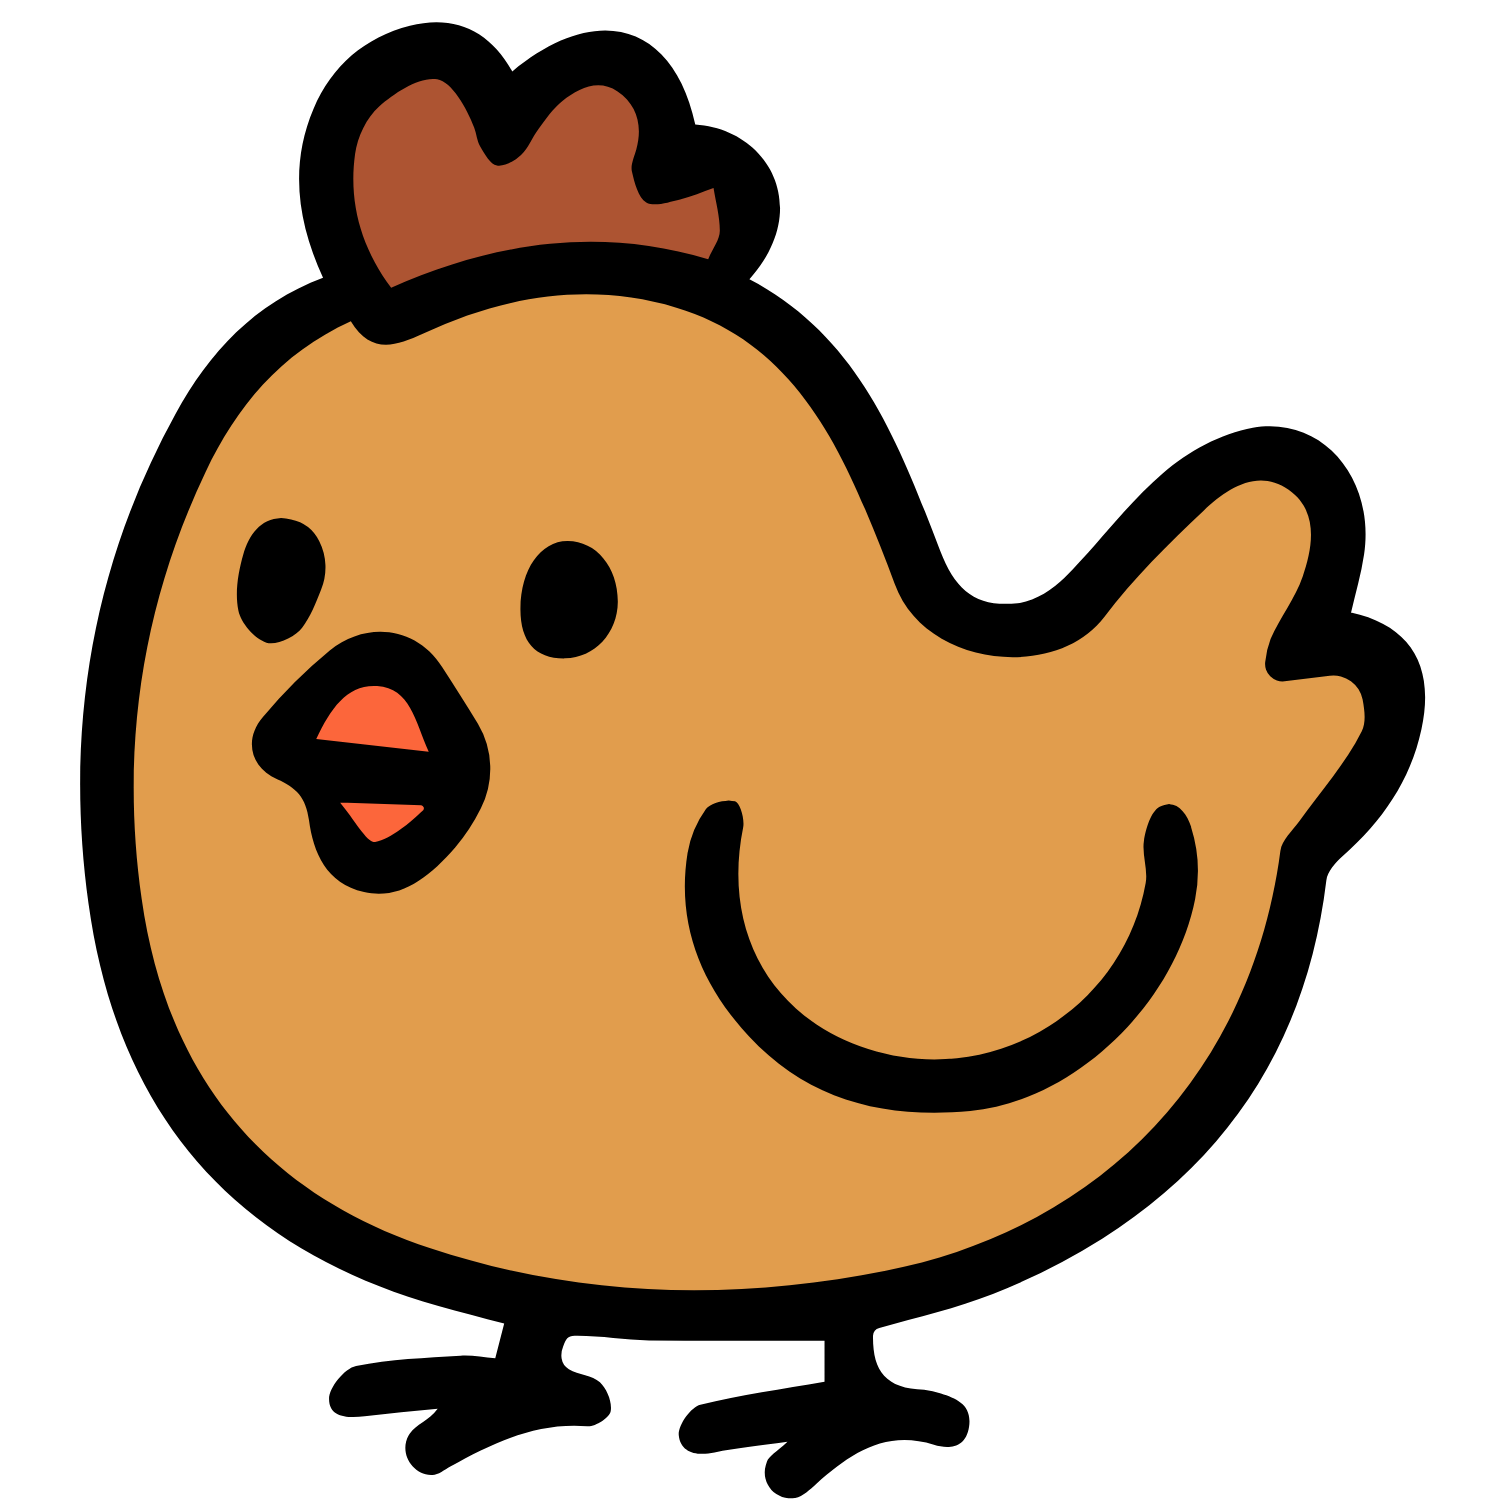
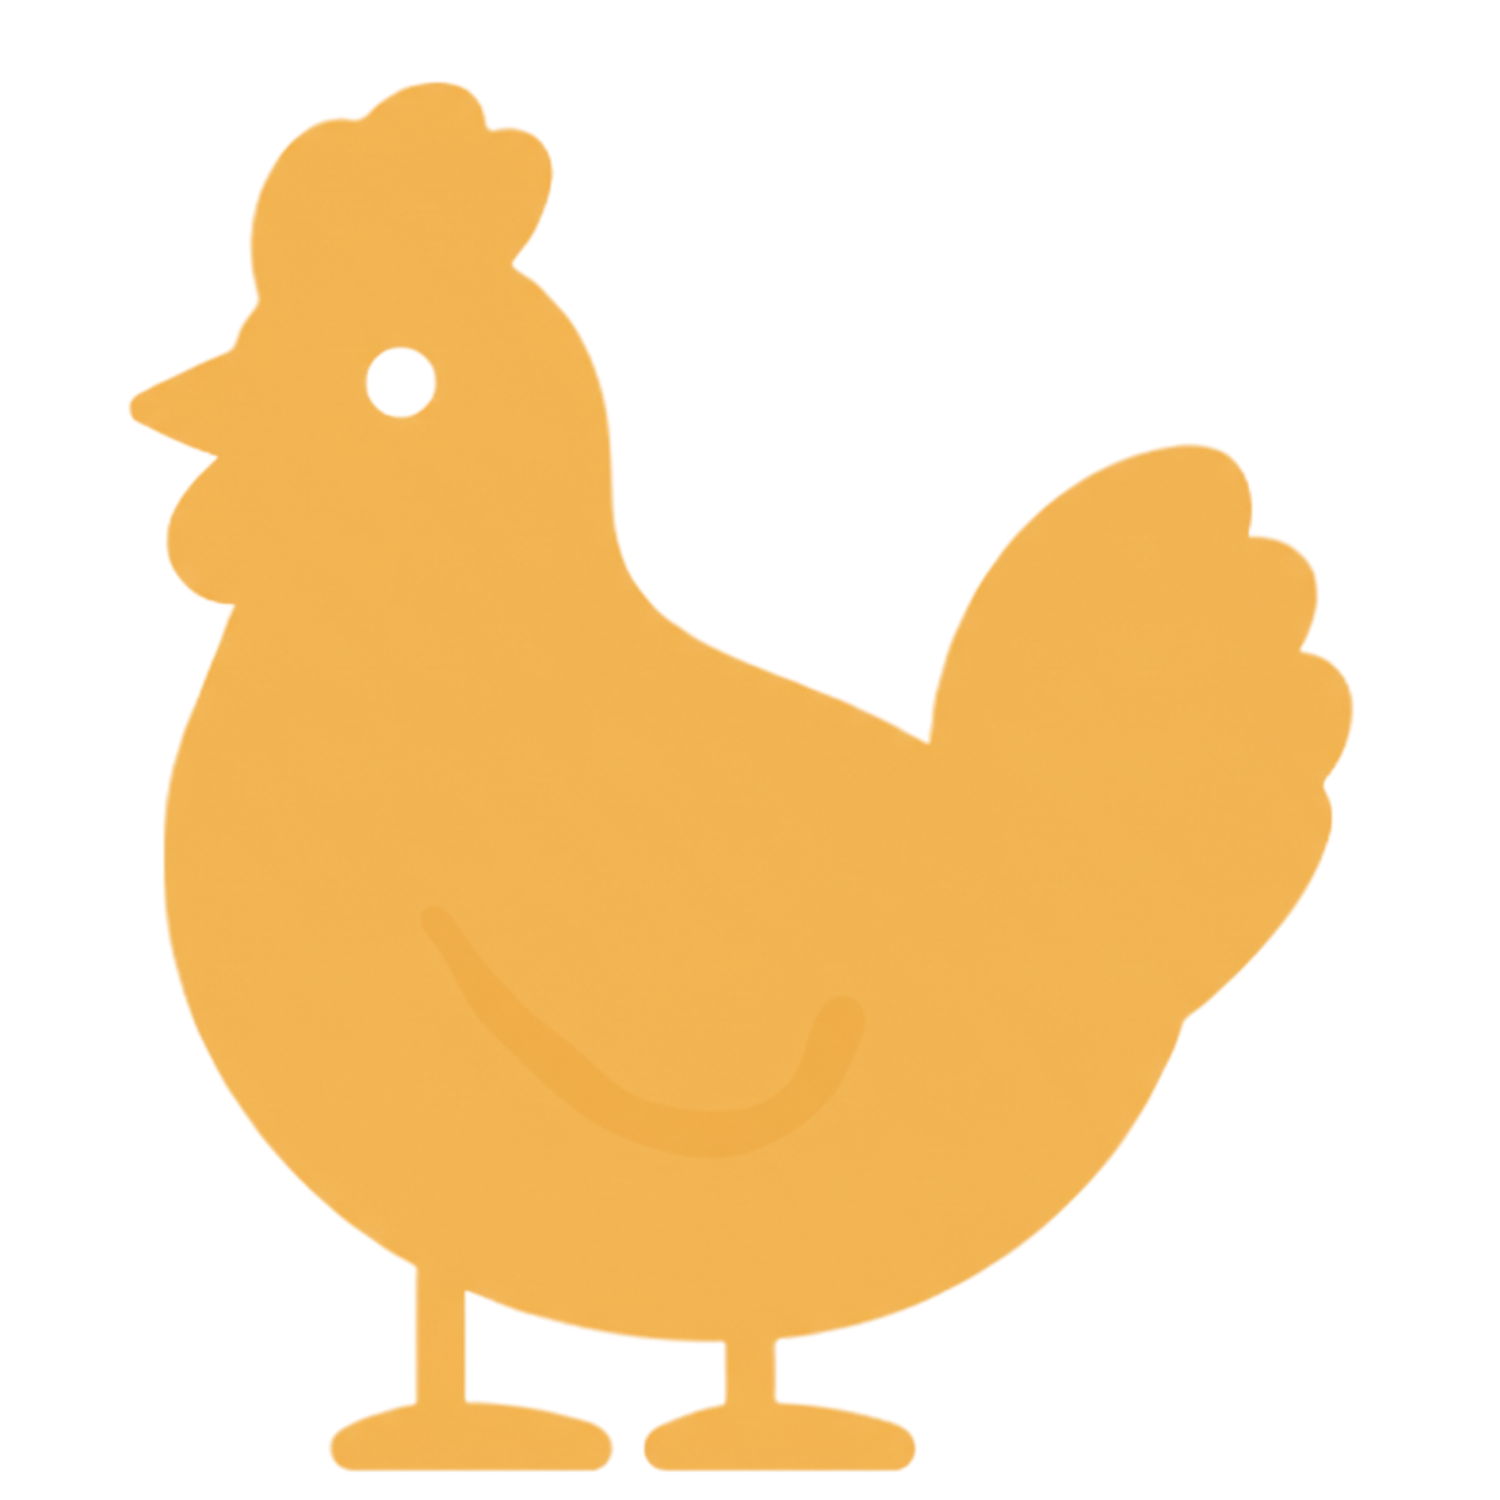
added new chick-files for button. added hover state

diff --git a/src/styles/global.css b/src/styles/global.css
@@ -169,6 +169,27 @@
     color: #fffffc;
   }
 
+  .chick-button-image {
+    display: grid;
+  }
+
+  .chick-button-image > img {
+    grid-area: 1 / 1;
+    transition: opacity 0.2s ease;
+  }
+
+  .chick-button-hover {
+    opacity: 0;
+  }
+
+  .chick-button:hover .chick-button-hover {
+    opacity: 1;
+  }
+
+  .chick-button:hover .chick-button-default {
+    opacity: 0;
+  }
+
   .slider-chick-button {
     position: absolute;
     left: clamp(1rem, 4vw, 2.5rem);
@@ -191,6 +212,10 @@
     height: auto;
     object-fit: contain;
     transform: scaleX(-1);
+  }
+
+  .slider-chick-button .chick-button-image {
+    width: 100%;
   }
 
   .slider-chick-button span {